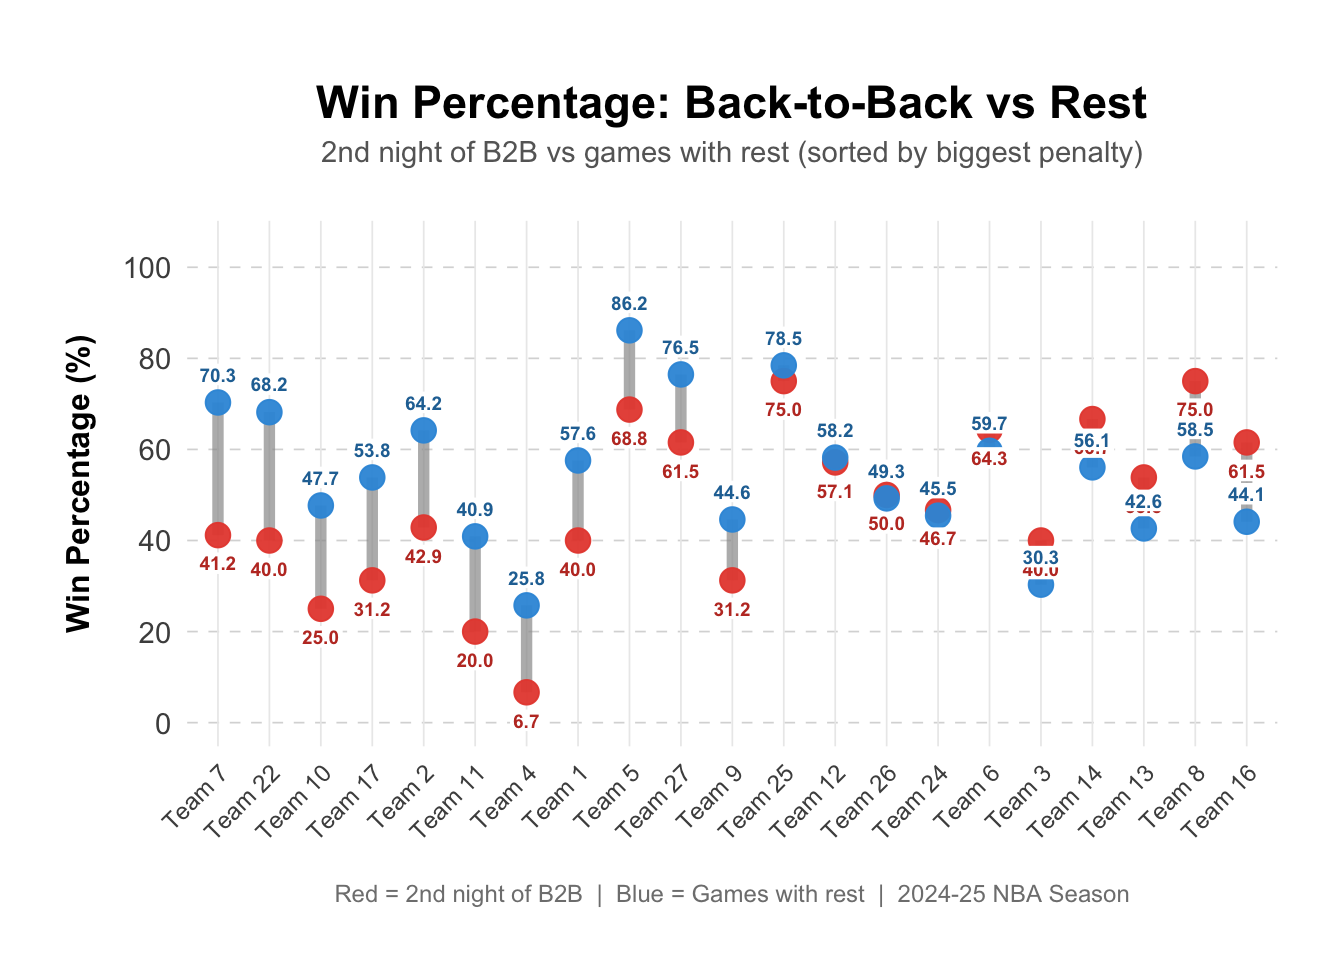
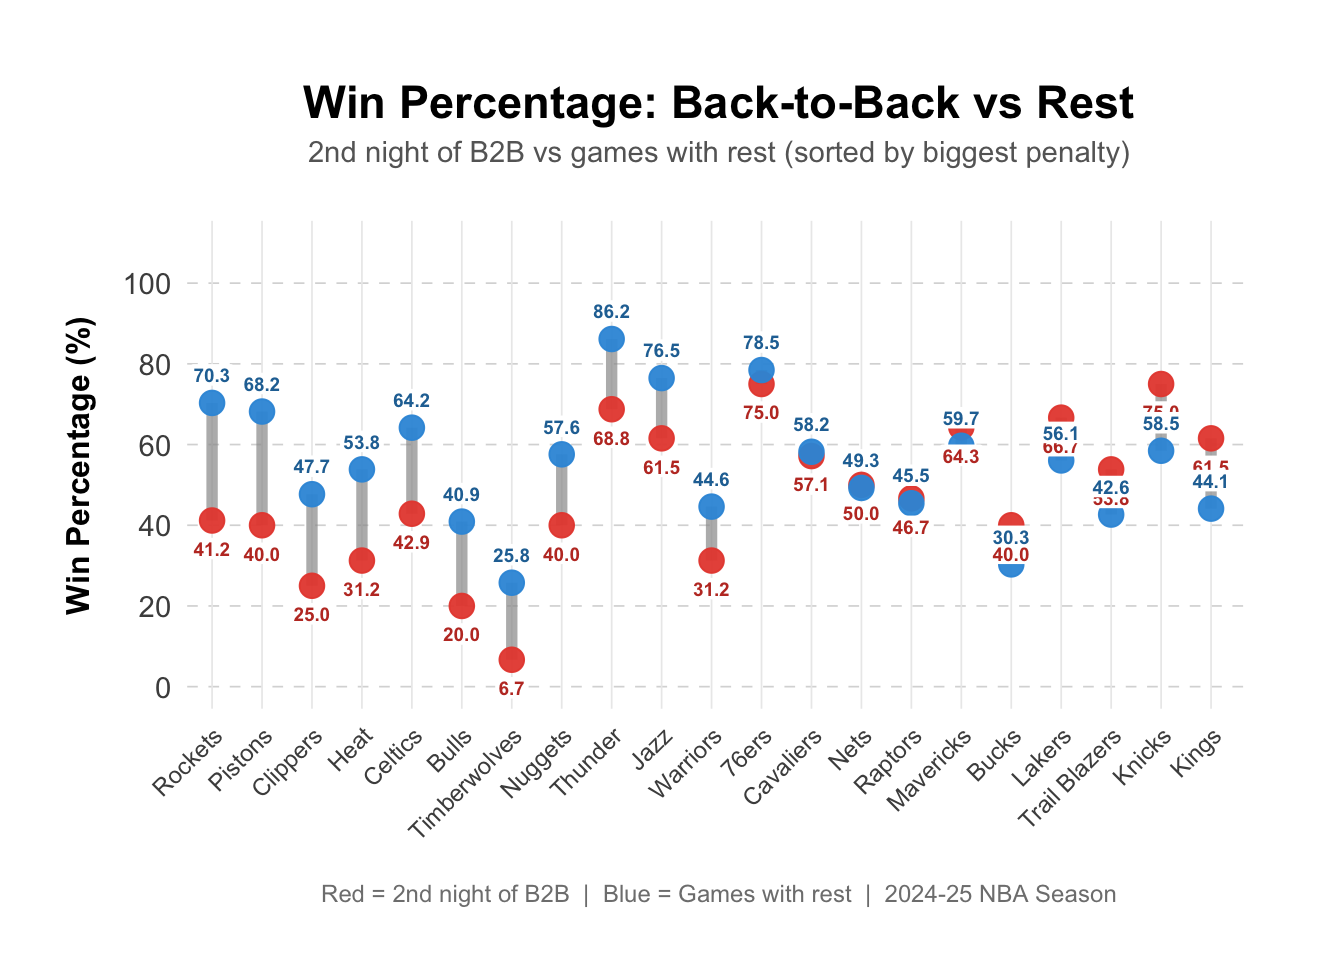
updatedchart

diff --git a/17170/1111/17/victor-wembanyama-s-defensive-pace-versus-legends-and-current-trajectory/index.html b/17170/1111/17/victor-wembanyama-s-defensive-pace-versus-legends-and-current-trajectory/index.html
@@ -60,7 +60,7 @@
 
   <article class="article">
     
-    <span class="article-duration">17 min read</span>
+    <span class="article-duration">18 min read</span>
     
 
     <h1 class="article-title">Victor Wembanyama&#39;s Defensive Pace Versus Legends And Current Trajectory</h1>
@@ -76,7 +76,6 @@
 <p>In my first table chart, I wanted to compare Wembanyama to some of the greatest defenders of each generation. Specifically, comparing him to some of the best defending bigs the world has ever seen. For this table chart I wanted to look at some of the advanced metrics and compare Wembanyama&rsquo;s first 127 career games to these greats to see how he is stacking up to those defensive legends and figure out the trajectory he is at in claiming the most impactful defender of all time spot. In this chart, the defensive statistics that I focused on were Defensive Win Shares, Block Percentage, Defensive Rebound Percentage, and Defensive Box Plus/Minus. Quick Check</p>
 <div class="highlight"><pre tabindex="0" style="color:#f8f8f2;background-color:#272822;-moz-tab-size:4;-o-tab-size:4;tab-size:4;"><code class="language-r" data-lang="r"><span style="display:flex;"><span><span style="color:#75715e"># NBA Back-to-Back Win Percentage - VERTICAL Dumbbell Chart</span>
 </span></span><span style="display:flex;"><span><span style="color:#75715e"># Teams on X-axis, Win % on Y-axis (like the example)</span>
-</span></span><span style="display:flex;"><span>
 </span></span><span style="display:flex;"><span><span style="color:#a6e22e">library</span>(tidyverse)
 </span></span></code></pre></div><pre tabindex="0"><code>## Warning: package &#39;lubridate&#39; was built under R version 4.3.3
 </code></pre><pre tabindex="0"><code>## ── Attaching core tidyverse packages ──────────────────────── tidyverse 2.0.0 ──
@@ -90,8 +89,41 @@
 ## ✖ dplyr::lag()    masks stats::lag()
 ## ℹ Use the conflicted package (&lt;http://conflicted.r-lib.org/&gt;) to force all conflicts to become errors
 </code></pre><div class="highlight"><pre tabindex="0" style="color:#f8f8f2;background-color:#272822;-moz-tab-size:4;-o-tab-size:4;tab-size:4;"><code class="language-r" data-lang="r"><span style="display:flex;"><span><span style="color:#a6e22e">library</span>(lubridate)
-</span></span><span style="display:flex;"><span>
 </span></span><span style="display:flex;"><span><span style="color:#a6e22e">setwd</span>(<span style="color:#e6db74">&#34;~/Documents&#34;</span>)
+</span></span><span style="display:flex;"><span>
+</span></span><span style="display:flex;"><span><span style="color:#75715e"># Team name mapping (positions 1-30 match your Teamdata file numbers)</span>
+</span></span><span style="display:flex;"><span>team_names <span style="color:#f92672">&lt;-</span> <span style="color:#a6e22e">c</span>(
+</span></span><span style="display:flex;"><span>  <span style="color:#e6db74">&#34;Nuggets&#34;</span>,      <span style="color:#75715e"># 1</span>
+</span></span><span style="display:flex;"><span>  <span style="color:#e6db74">&#34;Celtics&#34;</span>,      <span style="color:#75715e"># 2</span>
+</span></span><span style="display:flex;"><span>  <span style="color:#e6db74">&#34;Bucks&#34;</span>,        <span style="color:#75715e"># 3</span>
+</span></span><span style="display:flex;"><span>  <span style="color:#e6db74">&#34;Timberwolves&#34;</span>, <span style="color:#75715e"># 4</span>
+</span></span><span style="display:flex;"><span>  <span style="color:#e6db74">&#34;Thunder&#34;</span>,     <span style="color:#75715e"># 5</span>
+</span></span><span style="display:flex;"><span>  <span style="color:#e6db74">&#34;Mavericks&#34;</span>,    <span style="color:#75715e"># 6</span>
+</span></span><span style="display:flex;"><span>  <span style="color:#e6db74">&#34;Rockets&#34;</span>,      <span style="color:#75715e"># 7</span>
+</span></span><span style="display:flex;"><span>  <span style="color:#e6db74">&#34;Knicks&#34;</span>,       <span style="color:#75715e"># 8</span>
+</span></span><span style="display:flex;"><span>  <span style="color:#e6db74">&#34;Warriors&#34;</span>,      <span style="color:#75715e"># 9</span>
+</span></span><span style="display:flex;"><span>  <span style="color:#e6db74">&#34;Clippers&#34;</span>,     <span style="color:#75715e"># 10</span>
+</span></span><span style="display:flex;"><span>  <span style="color:#e6db74">&#34;Bulls&#34;</span>,        <span style="color:#75715e"># 11</span>
+</span></span><span style="display:flex;"><span>  <span style="color:#e6db74">&#34;Cavaliers&#34;</span>,    <span style="color:#75715e"># 12</span>
+</span></span><span style="display:flex;"><span>  <span style="color:#e6db74">&#34;Trail Blazers&#34;</span>,      <span style="color:#75715e"># 13</span>
+</span></span><span style="display:flex;"><span>  <span style="color:#e6db74">&#34;Lakers&#34;</span>,       <span style="color:#75715e"># 14</span>
+</span></span><span style="display:flex;"><span>  <span style="color:#e6db74">&#34;Hawks&#34;</span>,        <span style="color:#75715e"># 15</span>
+</span></span><span style="display:flex;"><span>  <span style="color:#e6db74">&#34;Kings&#34;</span>,        <span style="color:#75715e"># 16</span>
+</span></span><span style="display:flex;"><span>  <span style="color:#e6db74">&#34;Heat&#34;</span>,         <span style="color:#75715e"># 17</span>
+</span></span><span style="display:flex;"><span>  <span style="color:#e6db74">&#34;Magic&#34;</span>,        <span style="color:#75715e"># 18</span>
+</span></span><span style="display:flex;"><span>  <span style="color:#e6db74">&#34;Spurs&#34;</span>,        <span style="color:#75715e"># 19</span>
+</span></span><span style="display:flex;"><span>  <span style="color:#e6db74">&#34;Pacers&#34;</span>,       <span style="color:#75715e"># 20</span>
+</span></span><span style="display:flex;"><span>  <span style="color:#e6db74">&#34;Grizzlies&#34;</span>,    <span style="color:#75715e"># 21</span>
+</span></span><span style="display:flex;"><span>  <span style="color:#e6db74">&#34;Pistons&#34;</span>,<span style="color:#75715e"># 22</span>
+</span></span><span style="display:flex;"><span>  <span style="color:#e6db74">&#34;Suns&#34;</span>,         <span style="color:#75715e"># 23</span>
+</span></span><span style="display:flex;"><span>  <span style="color:#e6db74">&#34;Raptors&#34;</span>,      <span style="color:#75715e"># 24</span>
+</span></span><span style="display:flex;"><span>  <span style="color:#e6db74">&#34;76ers&#34;</span>,        <span style="color:#75715e"># 25</span>
+</span></span><span style="display:flex;"><span>  <span style="color:#e6db74">&#34;Nets&#34;</span>,         <span style="color:#75715e"># 26</span>
+</span></span><span style="display:flex;"><span>  <span style="color:#e6db74">&#34;Jazz&#34;</span>,         <span style="color:#75715e"># 27</span>
+</span></span><span style="display:flex;"><span>  <span style="color:#e6db74">&#34;Hornets&#34;</span>,      <span style="color:#75715e"># 28</span>
+</span></span><span style="display:flex;"><span>  <span style="color:#e6db74">&#34;Pelicans&#34;</span>,     <span style="color:#75715e"># 29</span>
+</span></span><span style="display:flex;"><span>  <span style="color:#e6db74">&#34;Wizards&#34;</span>       <span style="color:#75715e"># 30</span>
+</span></span><span style="display:flex;"><span>)
 </span></span><span style="display:flex;"><span>
 </span></span><span style="display:flex;"><span><span style="color:#75715e"># Load data with team IDs</span>
 </span></span><span style="display:flex;"><span>team_files <span style="color:#f92672">&lt;-</span> <span style="color:#a6e22e">list.files</span>(pattern <span style="color:#f92672">=</span> <span style="color:#e6db74">&#34;Teamdata.*\\.csv$&#34;</span>, full.names <span style="color:#f92672">=</span> <span style="color:#66d9ef">TRUE</span>)
@@ -110,7 +142,7 @@
 </span></span><span style="display:flex;"><span>  
 </span></span><span style="display:flex;"><span>  team_data <span style="color:#f92672">&lt;-</span> team_data <span style="color:#f92672">%&gt;%</span> 
 </span></span><span style="display:flex;"><span>    <span style="color:#a6e22e">filter</span>(<span style="color:#f92672">!</span><span style="color:#a6e22e">is.na</span>(Date) <span style="color:#f92672">&amp;</span> Date <span style="color:#f92672">!=</span> <span style="color:#e6db74">&#34;&#34;</span>) <span style="color:#f92672">%&gt;%</span>
-</span></span><span style="display:flex;"><span>    <span style="color:#a6e22e">mutate</span>(Team_ID <span style="color:#f92672">=</span> <span style="color:#a6e22e">sprintf</span>(<span style="color:#e6db74">&#34;Team %d&#34;</span>, i))
+</span></span><span style="display:flex;"><span>    <span style="color:#a6e22e">mutate</span>(Team_ID <span style="color:#f92672">=</span> i)  <span style="color:#75715e"># Keep as number for now</span>
 </span></span><span style="display:flex;"><span>  
 </span></span><span style="display:flex;"><span>  all_data <span style="color:#f92672">&lt;-</span> <span style="color:#a6e22e">rbind</span>(all_data, team_data)
 </span></span><span style="display:flex;"><span>}
@@ -154,9 +186,12 @@
 </span></span><span style="display:flex;"><span>  ) <span style="color:#f92672">%&gt;%</span>
 </span></span><span style="display:flex;"><span>  <span style="color:#a6e22e">pivot_wider</span>(names_from <span style="color:#f92672">=</span> Game_Type, values_from <span style="color:#f92672">=</span> <span style="color:#a6e22e">c</span>(Games, Win_Pct))
 </span></span><span style="display:flex;"><span>
-</span></span><span style="display:flex;"><span><span style="color:#75715e"># Calculate gap and sort</span>
+</span></span><span style="display:flex;"><span><span style="color:#75715e"># Add team names and calculate gap</span>
 </span></span><span style="display:flex;"><span>team_summary <span style="color:#f92672">&lt;-</span> team_summary <span style="color:#f92672">%&gt;%</span>
-</span></span><span style="display:flex;"><span>  <span style="color:#a6e22e">mutate</span>(Gap <span style="color:#f92672">=</span> Win_Pct_Rest <span style="color:#f92672">-</span> Win_Pct_B2B) <span style="color:#f92672">%&gt;%</span>
+</span></span><span style="display:flex;"><span>  <span style="color:#a6e22e">mutate</span>(
+</span></span><span style="display:flex;"><span>    Team_Name <span style="color:#f92672">=</span> team_names[Team_ID],
+</span></span><span style="display:flex;"><span>    Gap <span style="color:#f92672">=</span> Win_Pct_Rest <span style="color:#f92672">-</span> Win_Pct_B2B
+</span></span><span style="display:flex;"><span>  ) <span style="color:#f92672">%&gt;%</span>
 </span></span><span style="display:flex;"><span>  <span style="color:#a6e22e">arrange</span>(<span style="color:#a6e22e">desc</span>(Gap))
 </span></span><span style="display:flex;"><span>
 </span></span><span style="display:flex;"><span><span style="color:#a6e22e">cat</span>(<span style="color:#a6e22e">sprintf</span>(<span style="color:#e6db74">&#34;\n=== Data Check ===\n&#34;</span>))
@@ -164,17 +199,20 @@
 ## === Data Check ===
 </code></pre><div class="highlight"><pre tabindex="0" style="color:#f8f8f2;background-color:#272822;-moz-tab-size:4;-o-tab-size:4;tab-size:4;"><code class="language-r" data-lang="r"><span style="display:flex;"><span><span style="color:#a6e22e">cat</span>(<span style="color:#a6e22e">sprintf</span>(<span style="color:#e6db74">&#34;Total teams: %d\n&#34;</span>, <span style="color:#a6e22e">nrow</span>(team_summary)))
 </span></span></code></pre></div><pre tabindex="0"><code>## Total teams: 21
-</code></pre><div class="highlight"><pre tabindex="0" style="color:#f8f8f2;background-color:#272822;-moz-tab-size:4;-o-tab-size:4;tab-size:4;"><code class="language-r" data-lang="r"><span style="display:flex;"><span><span style="color:#a6e22e">cat</span>(<span style="color:#e6db74">&#34;All teams:\n&#34;</span>)
-</span></span></code></pre></div><pre tabindex="0"><code>## All teams:
-</code></pre><div class="highlight"><pre tabindex="0" style="color:#f8f8f2;background-color:#272822;-moz-tab-size:4;-o-tab-size:4;tab-size:4;"><code class="language-r" data-lang="r"><span style="display:flex;"><span><span style="color:#a6e22e">print</span>(team_summary<span style="color:#f92672">$</span>Team_ID)
-</span></span></code></pre></div><pre tabindex="0"><code>##  [1] &#34;Team 7&#34;  &#34;Team 22&#34; &#34;Team 10&#34; &#34;Team 17&#34; &#34;Team 2&#34;  &#34;Team 11&#34; &#34;Team 4&#34; 
-##  [8] &#34;Team 1&#34;  &#34;Team 5&#34;  &#34;Team 27&#34; &#34;Team 9&#34;  &#34;Team 25&#34; &#34;Team 12&#34; &#34;Team 26&#34;
-## [15] &#34;Team 24&#34; &#34;Team 6&#34;  &#34;Team 3&#34;  &#34;Team 14&#34; &#34;Team 13&#34; &#34;Team 8&#34;  &#34;Team 16&#34;
-</code></pre><div class="highlight"><pre tabindex="0" style="color:#f8f8f2;background-color:#272822;-moz-tab-size:4;-o-tab-size:4;tab-size:4;"><code class="language-r" data-lang="r"><span style="display:flex;"><span><span style="color:#75715e"># Create VERTICAL dumbbell with READABLE numbers</span>
-</span></span><span style="display:flex;"><span><span style="color:#a6e22e">ggplot</span>(team_summary, <span style="color:#a6e22e">aes</span>(x <span style="color:#f92672">=</span> <span style="color:#a6e22e">reorder</span>(Team_ID, <span style="color:#f92672">-</span>Gap))) <span style="color:#f92672">+</span>
+</code></pre><div class="highlight"><pre tabindex="0" style="color:#f8f8f2;background-color:#272822;-moz-tab-size:4;-o-tab-size:4;tab-size:4;"><code class="language-r" data-lang="r"><span style="display:flex;"><span><span style="color:#a6e22e">cat</span>(<span style="color:#e6db74">&#34;Teams included:\n&#34;</span>)
+</span></span></code></pre></div><pre tabindex="0"><code>## Teams included:
+</code></pre><div class="highlight"><pre tabindex="0" style="color:#f8f8f2;background-color:#272822;-moz-tab-size:4;-o-tab-size:4;tab-size:4;"><code class="language-r" data-lang="r"><span style="display:flex;"><span><span style="color:#a6e22e">print</span>(team_summary<span style="color:#f92672">$</span>Team_Name)
+</span></span></code></pre></div><pre tabindex="0"><code>##  [1] &#34;Rockets&#34;       &#34;Pistons&#34;       &#34;Clippers&#34;      &#34;Heat&#34;         
+##  [5] &#34;Celtics&#34;       &#34;Bulls&#34;         &#34;Timberwolves&#34;  &#34;Nuggets&#34;      
+##  [9] &#34;Thunder&#34;       &#34;Jazz&#34;          &#34;Warriors&#34;      &#34;76ers&#34;        
+## [13] &#34;Cavaliers&#34;     &#34;Nets&#34;          &#34;Raptors&#34;       &#34;Mavericks&#34;    
+## [17] &#34;Bucks&#34;         &#34;Lakers&#34;        &#34;Trail Blazers&#34; &#34;Knicks&#34;       
+## [21] &#34;Kings&#34;
+</code></pre><div class="highlight"><pre tabindex="0" style="color:#f8f8f2;background-color:#272822;-moz-tab-size:4;-o-tab-size:4;tab-size:4;"><code class="language-r" data-lang="r"><span style="display:flex;"><span><span style="color:#75715e"># Create VERTICAL dumbbell with TEAM NAMES</span>
+</span></span><span style="display:flex;"><span><span style="color:#a6e22e">ggplot</span>(team_summary, <span style="color:#a6e22e">aes</span>(x <span style="color:#f92672">=</span> <span style="color:#a6e22e">reorder</span>(Team_Name, <span style="color:#f92672">-</span>Gap))) <span style="color:#f92672">+</span>
 </span></span><span style="display:flex;"><span>  
 </span></span><span style="display:flex;"><span>  <span style="color:#75715e"># Connecting lines</span>
-</span></span><span style="display:flex;"><span>  <span style="color:#a6e22e">geom_segment</span>(<span style="color:#a6e22e">aes</span>(y <span style="color:#f92672">=</span> Win_Pct_B2B, yend <span style="color:#f92672">=</span> Win_Pct_Rest, xend <span style="color:#f92672">=</span> Team_ID),
+</span></span><span style="display:flex;"><span>  <span style="color:#a6e22e">geom_segment</span>(<span style="color:#a6e22e">aes</span>(y <span style="color:#f92672">=</span> Win_Pct_B2B, yend <span style="color:#f92672">=</span> Win_Pct_Rest, xend <span style="color:#f92672">=</span> Team_Name),
 </span></span><span style="display:flex;"><span>               size <span style="color:#f92672">=</span> <span style="color:#ae81ff">2</span>, color <span style="color:#f92672">=</span> <span style="color:#e6db74">&#34;gray60&#34;</span>, alpha <span style="color:#f92672">=</span> <span style="color:#ae81ff">0.7</span>) <span style="color:#f92672">+</span>
 </span></span><span style="display:flex;"><span>  
 </span></span><span style="display:flex;"><span>  <span style="color:#75715e"># Dots</span>
@@ -215,11 +253,14 @@
 </span></span><span style="display:flex;"><span>    panel.grid.major.y <span style="color:#f92672">=</span> <span style="color:#a6e22e">element_line</span>(color <span style="color:#f92672">=</span> <span style="color:#e6db74">&#34;gray85&#34;</span>, linetype <span style="color:#f92672">=</span> <span style="color:#e6db74">&#34;dashed&#34;</span>, size <span style="color:#f92672">=</span> <span style="color:#ae81ff">0.3</span>),
 </span></span><span style="display:flex;"><span>    panel.grid.minor <span style="color:#f92672">=</span> <span style="color:#a6e22e">element_blank</span>(),
 </span></span><span style="display:flex;"><span>    
-</span></span><span style="display:flex;"><span>    plot.margin <span style="color:#f92672">=</span> <span style="color:#a6e22e">margin</span>(<span style="color:#ae81ff">20</span>, <span style="color:#ae81ff">25</span>, <span style="color:#ae81ff">20</span>, <span style="color:#ae81ff">25</span>)
+</span></span><span style="display:flex;"><span>    plot.margin <span style="color:#f92672">=</span> <span style="color:#a6e22e">margin</span>(<span style="color:#ae81ff">20</span>, <span style="color:#ae81ff">35</span>, <span style="color:#ae81ff">20</span>, <span style="color:#ae81ff">25</span>)
 </span></span><span style="display:flex;"><span>  ) <span style="color:#f92672">+</span>
 </span></span><span style="display:flex;"><span>  
 </span></span><span style="display:flex;"><span>  <span style="color:#75715e"># Y-axis with extra space at top so labels don&#39;t get cut off</span>
-</span></span><span style="display:flex;"><span>  <span style="color:#a6e22e">scale_y_continuous</span>(limits <span style="color:#f92672">=</span> <span style="color:#a6e22e">c</span>(<span style="color:#ae81ff">0</span>, <span style="color:#ae81ff">105</span>), breaks <span style="color:#f92672">=</span> <span style="color:#a6e22e">seq</span>(<span style="color:#ae81ff">0</span>, <span style="color:#ae81ff">100</span>, <span style="color:#ae81ff">20</span>))
+</span></span><span style="display:flex;"><span>  <span style="color:#a6e22e">scale_y_continuous</span>(limits <span style="color:#f92672">=</span> <span style="color:#a6e22e">c</span>(<span style="color:#ae81ff">0</span>, <span style="color:#ae81ff">110</span>), breaks <span style="color:#f92672">=</span> <span style="color:#a6e22e">seq</span>(<span style="color:#ae81ff">0</span>, <span style="color:#ae81ff">100</span>, <span style="color:#ae81ff">20</span>)) <span style="color:#f92672">+</span>
+</span></span><span style="display:flex;"><span>  
+</span></span><span style="display:flex;"><span>  <span style="color:#75715e"># Add expansion on x-axis to prevent right-side cutoff</span>
+</span></span><span style="display:flex;"><span>  <span style="color:#a6e22e">scale_x_discrete</span>(expand <span style="color:#f92672">=</span> <span style="color:#a6e22e">expansion</span>(add <span style="color:#f92672">=</span> <span style="color:#a6e22e">c</span>(<span style="color:#ae81ff">0.5</span>, <span style="color:#ae81ff">0.8</span>)))
 </span></span></code></pre></div><pre tabindex="0"><code>## Warning: Using `size` aesthetic for lines was deprecated in ggplot2 3.4.0.
 ## ℹ Please use `linewidth` instead.
 ## This warning is displayed once every 8 hours.
@@ -234,17 +275,9 @@
 <div class="highlight"><pre tabindex="0" style="color:#f8f8f2;background-color:#272822;-moz-tab-size:4;-o-tab-size:4;tab-size:4;"><code class="language-r" data-lang="r"><span style="display:flex;"><span><span style="color:#75715e"># Save as WIDE chart so all teams fit</span>
 </span></span><span style="display:flex;"><span><span style="color:#a6e22e">ggsave</span>(<span style="color:#e6db74">&#34;nba_b2b_vertical.png&#34;</span>, width <span style="color:#f92672">=</span> <span style="color:#ae81ff">18</span>, height <span style="color:#f92672">=</span> <span style="color:#ae81ff">8</span>, dpi <span style="color:#f92672">=</span> <span style="color:#ae81ff">300</span>, bg <span style="color:#f92672">=</span> <span style="color:#e6db74">&#34;white&#34;</span>)
 </span></span><span style="display:flex;"><span>
-</span></span><span style="display:flex;"><span><span style="color:#a6e22e">cat</span>(<span style="color:#e6db74">&#34;\n✓ Chart with readable numbers created!\n&#34;</span>)
+</span></span><span style="display:flex;"><span><span style="color:#a6e22e">cat</span>(<span style="color:#e6db74">&#34;\n✓ Chart with team names created!\n&#34;</span>)
 </span></span></code></pre></div><pre tabindex="0"><code>## 
-## ✓ Chart with readable numbers created!
-</code></pre><div class="highlight"><pre tabindex="0" style="color:#f8f8f2;background-color:#272822;-moz-tab-size:4;-o-tab-size:4;tab-size:4;"><code class="language-r" data-lang="r"><span style="display:flex;"><span><span style="color:#a6e22e">cat</span>(<span style="color:#e6db74">&#34;✓ Key improvements:\n&#34;</span>)
-</span></span></code></pre></div><pre tabindex="0"><code>## ✓ Key improvements:
-</code></pre><div class="highlight"><pre tabindex="0" style="color:#f8f8f2;background-color:#272822;-moz-tab-size:4;-o-tab-size:4;tab-size:4;"><code class="language-r" data-lang="r"><span style="display:flex;"><span><span style="color:#a6e22e">cat</span>(<span style="color:#e6db74">&#34;  - Numbers have white background boxes for readability\n&#34;</span>)
-</span></span></code></pre></div><pre tabindex="0"><code>##   - Numbers have white background boxes for readability
-</code></pre><div class="highlight"><pre tabindex="0" style="color:#f8f8f2;background-color:#272822;-moz-tab-size:4;-o-tab-size:4;tab-size:4;"><code class="language-r" data-lang="r"><span style="display:flex;"><span><span style="color:#a6e22e">cat</span>(<span style="color:#e6db74">&#34;  - Extended Y-axis to prevent label cutoff\n&#34;</span>)
-</span></span></code></pre></div><pre tabindex="0"><code>##   - Extended Y-axis to prevent label cutoff
-</code></pre><div class="highlight"><pre tabindex="0" style="color:#f8f8f2;background-color:#272822;-moz-tab-size:4;-o-tab-size:4;tab-size:4;"><code class="language-r" data-lang="r"><span style="display:flex;"><span><span style="color:#a6e22e">cat</span>(<span style="color:#e6db74">&#34;  - Wider format (18 inches) for all teams\n&#34;</span>)
-</span></span></code></pre></div><pre tabindex="0"><code>##   - Wider format (18 inches) for all teams
+## ✓ Chart with team names created!
 </code></pre><div class="highlight"><pre tabindex="0" style="color:#f8f8f2;background-color:#272822;-moz-tab-size:4;-o-tab-size:4;tab-size:4;"><code class="language-r" data-lang="r"><span style="display:flex;"><span><span style="color:#a6e22e">cat</span>(<span style="color:#a6e22e">sprintf</span>(<span style="color:#e6db74">&#34;✓ All %d teams included\n&#34;</span>, <span style="color:#a6e22e">nrow</span>(team_summary)))
 </span></span></code></pre></div><pre tabindex="0"><code>## ✓ All 21 teams included
 </code></pre><div class="highlight"><pre tabindex="0" style="color:#f8f8f2;background-color:#272822;-moz-tab-size:4;-o-tab-size:4;tab-size:4;"><code class="language-r" data-lang="r"><span style="display:flex;"><span><span style="color:#a6e22e">cat</span>(<span style="color:#a6e22e">sprintf</span>(<span style="color:#e6db74">&#34;\nAverage gap: %.1f%%\n&#34;</span>, <span style="color:#a6e22e">mean</span>(team_summary<span style="color:#f92672">$</span>Gap)))
